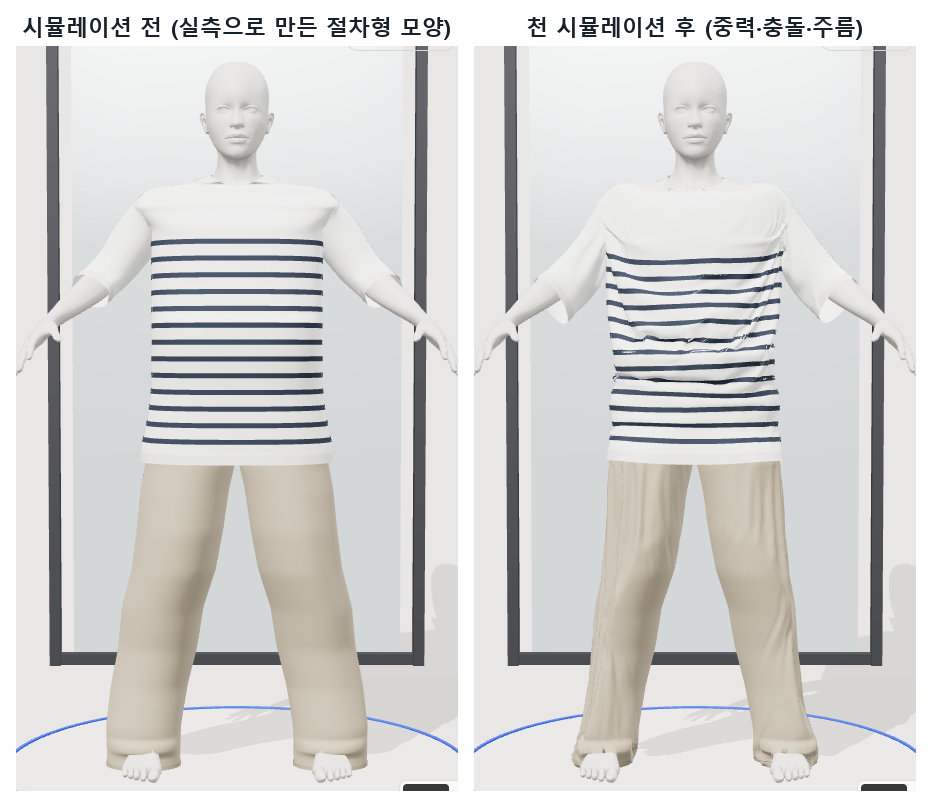
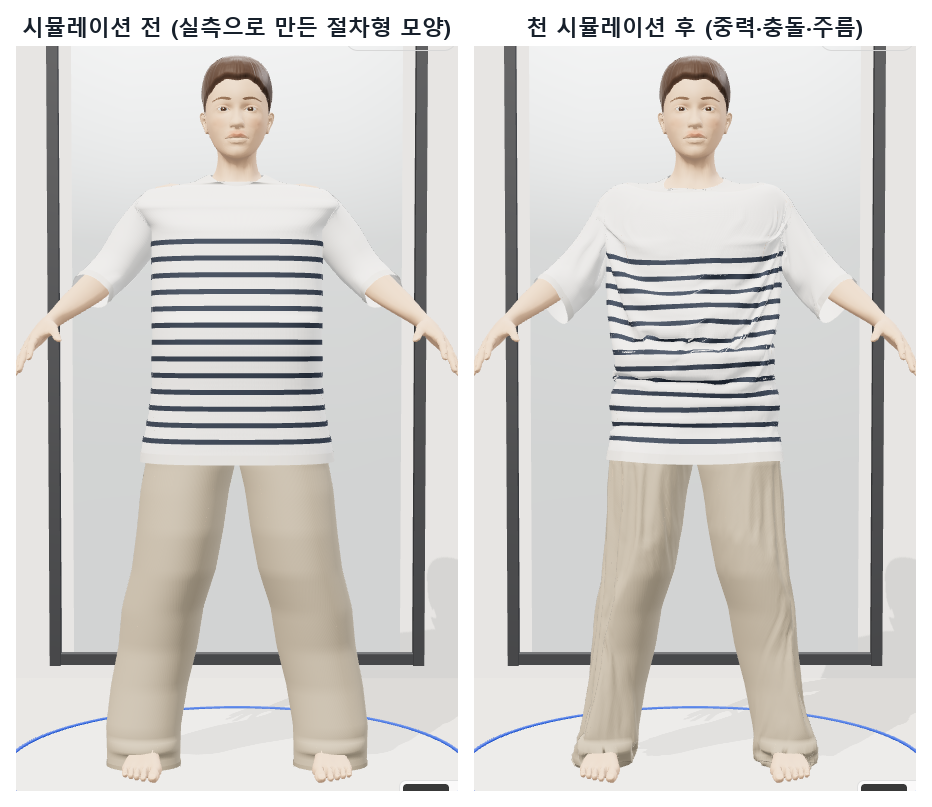
docs: 아바타 모습 설명과 새 스크린샷

diff --git a/docs/FEATURES.md b/docs/FEATURES.md
@@ -82,7 +82,7 @@ npm run build
 npm run evaluate:ads -- --dry-run
 ```
 
-Node.js 22.13 이상. Sites의 portable 실행 프로필과 Vinext/React/TypeScript, Three.js를 사용합니다. 2026-09-29에 Node 22.23에서 저장소 파일만으로 `npm ci` → `npm test`(당시 102개, 2026-10-03 기준 148개) → `npm run typecheck` → `npm run build`가 통과함을 확인했습니다. macOS의 iCloud 동기화 폴더(Documents·Desktop) 안에서는 시스템이 파일을 비워 개발 서버·빌드가 멈출 수 있으니, 저장소를 iCloud 밖에 받아 실행하세요.
+Node.js 22.13 이상. Sites의 portable 실행 프로필과 Vinext/React/TypeScript, Three.js를 사용합니다. 2026-09-29에 Node 22.23에서 저장소 파일만으로 `npm ci` → `npm test`(당시 102개, 2026-11-17 기준 156개) → `npm run typecheck` → `npm run build`가 통과함을 확인했습니다. macOS의 iCloud 동기화 폴더(Documents·Desktop) 안에서는 시스템이 파일을 비워 개발 서버·빌드가 멈출 수 있으니, 저장소를 iCloud 밖에 받아 실행하세요.
 
 AI 생성은 서버 실행 환경에 `OPENAI_API_KEY`를 비밀값으로 설정해야 동작합니다. 키가 없으면 화면에 연결 설정이 필요하다고 표시하고, 예시 문구를 실제 생성 결과처럼 대신 보여주지 않습니다.
 
@@ -108,6 +108,7 @@ node --import ./scripts/sites-env.mjs ./node_modules/wrangler/bin/wrangler.js d1
 - 판매자 상품의 가격·재고·실측·구매 링크 등록, 게시/게시 내리기, 같은 브라우저의 이용자 옷장 연동.
 - 계정 동기화한 게시 매장을 다른 브라우저·기기의 이용자 상점 거리에서도 조회하고 판매자 진열 배치로 입장.
 - MakeHuman CC0 자산 기반 3D 아바타: 회전·확대·시점 전환, 키와 체형 변형. 받침대와 스튜디오 반사광으로 음영을 다듬음.
+- 아바타 모습: 피부색 5종, 머리 모양(짧은 머리·단발·없음), 머리색 3종을 체형 편집에서 고르면 바로 바뀌고 이 브라우저에만 저장. 눈·눈썹·입술·볼을 더한 얼굴, 지금 체형의 머리를 잘라 재서 만드는 머리카락(귀를 감싸고 모자를 쓰면 모자 아래로만), 원단 종류별 결(니트·평직·능직·데님 노멀맵), 부드러운 그림자와 테두리광. 표시용이라 핏 계산과 천 시뮬레이션은 그대로다.
 - 의상은 판매자 실측에서 직접 생성한 절차형 3D: 곡선 실루엣과 파인 목선·카라가 있고 어깨가 몸에 얹히며 소매가 진동 둘레에서 팔 중심선을 따라 이어지는 상의, 엉덩이와 두 다리가 앞·뒤 중심 솔기와 가랑이에서 이어진 한 장의 천에 허리밴드(뒤가 조금 높은 허리선)·벨트 고리·밑단 스티치가 있는 하의, 6패널 솔기와 휘어진 챙의 모자. 원단 물리 시뮬레이션이나 상품 사진 기반 재구성이 아닌 참고 표현이다. 옷 치수는 상품 실측 그대로이고, 아바타 체형이 옷보다 큰 높이만 몸 단면 바깥으로 밀어 몸이 옷을 뚫고 나오지 않게 한다.
 - 옷은 마네킹 GLB를 높이별로 실측한 중심선(몸통의 앞쪽 치우침, A자로 벌어진 다리, 머리 비율)에 맞춰 놓아 몸이 옷을 뚫고 나오지 않음. `lib/wardrobe/mannequin-fit.test.ts`가 마네킹 정점에서 옷 표면으로 광선을 쏴 노출 비율(상의·하의·모자별 허용치)을 검사. 미리 만든 상품 썸네일도 같은 형태로 다시 렌더링.
 - 체형 변화 대응: `scripts/measure-mannequin.ts`가 마네킹을 2cm 간격으로 잘라 몸통·다리 단면(둘레·반폭·중심)과 체형 모프 7종의 변화량을 `lib/wardrobe/mannequin-sections.ts`에 기록한다. 중립 단면 둘레는 보정 기준(가슴 96·허리 80·엉덩이 98·머리 57cm)과 1cm 이내로 맞는다. `lib/wardrobe/body-shape.ts`가 이 표로 현재 체형의 몸 단면을 계산하고, 옷 중심선·골반·다리 하한도 모프로 변한 만큼 옮긴다. 같은 표에 오른팔 단면(1.04m 이상)과 진동 띠(1.20~1.48m에서 몸 중심에서 17cm 이상 떨어진 몸 표면의 앞뒤 범위)도 기록한다. 소매는 몸판 위의 진동 둘레(어깨점~옷 겨드랑이, 앞뒤 깊이는 진동 띠 기준)에서 시작해 팔꿈치에서 앞으로 꺾이는 팔 중심선을 따라 소매단까지 이어지고, 팔 단면 안으로 들어간 점은 바깥으로 밀어 낸다. 소매 길이는 어깨점에서 소매 윗선을 따라 잰다. `lib/wardrobe/body-fit.test.ts`가 실제 모프를 적용한 마네킹(160 마름·175 큰 체형·185 큰 체형·168 혼합 입력)에서 노출 비율과 단면 표 오차, 소매가 위팔·어깨 끝을 덮는지를 검사한다.

diff --git a/docs/ARCHITECTURE.md b/docs/ARCHITECTURE.md
@@ -117,6 +117,18 @@ flowchart LR
 | 초록 (보통) | 0.5~3cm 떠 있음 |
 | 파랑 (넉넉함) | 3cm보다 더 뜸 |
 
+### 2.5 아바타 모습 — [`lib/wardrobe/hair.ts`](../lib/wardrobe/hair.ts), [`appearance.ts`](../lib/wardrobe/appearance.ts)
+
+체형 편집의 "아바타 모습"에서 피부색 5종, 머리 모양(짧은 머리·단발·없음), 머리색 3종을 고릅니다. 이 브라우저에만 저장하고 핏 계산·천 시뮬레이션에는 쓰지 않습니다. 몸 형태와 A 포즈는 그대로라 단면 표와 시뮬레이션 결과도 그대로입니다.
+
+- **얼굴** — 마네킹 GLB에 눈(흰자·홍채·동공), 눈썹 띠, 입술·볼·눈두덩 정점 색을 더했습니다([자산 설명](assets/MAKEHUMAN.md)). 피부 재질은 고른 피부색에 이 정점 색을 곱하고, 광택 대신 약한 솜털 광택(sheen)을 줍니다.
+- **머리카락** — 지금 체형으로 모프한 머리를 3mm 간격으로 수평으로 자르고, 방향 96개마다 머리 반지름을 잽니다. 그 위에 두께를 준 껍질을 만들고, 머리카락이 끝나는 높이는 스타일별 방향 표(앞 0° ~ 뒤 180°)로 정합니다. 짧은 머리는 귀 앞 구레나룻을 지나 귀 위로 둘러 깎은 선, 단발은 턱선까지입니다.
+  - 귀처럼 좁게 튀어나온 곳은 이웃 방향·높이의 최댓값으로 넓힌 뒤 다듬어 머리카락이 뚫리지 않게 넘어갑니다.
+  - 단발은 귀 위 두개골 높이 아래로 그 반지름보다 안쪽으로 들어가지 않고, 귀를 넘은 뒤 천천히 안으로 떨어지며, 끝을 살짝 안으로 맙니다.
+  - 끝 18%는 두께를 줄여 머리선이 피부에 닿습니다. 모자를 쓰면 모자 띠 아래로만 만듭니다.
+- **원단 결** — 니트·평직·능직·데님을 상품 이름과 스타일로 고르고, 절차형 노멀맵(128px, 반복)으로 표면 음영만 바꿉니다. 색과 형태는 그대로입니다.
+- **조명** — 부드러운 그림자(PCF soft), 따뜻한 주광, 뒤쪽 테두리광으로 머리와 어깨 윤곽을 살립니다.
+
 ## 3. 사진으로 체형 추정 — [`lib/wardrobe/photo-estimate.ts`](../lib/wardrobe/photo-estimate.ts)
 
 1. Web Worker([`photo-worker.ts`](../lib/wardrobe/photo-worker.ts))에서 MediaPipe Pose Landmarker Lite로 정면·측면 사진의 **관절 33개와 사람 영역 마스크**를 얻습니다. 모델과 WASM 파일은 같은 사이트에서 제공해서 사진이 외부로 나가지 않습니다.
@@ -181,13 +193,15 @@ flowchart LR
 
 ## 6. 테스트
 
-`npm test`로 Node.js 테스트 러너가 **148개 테스트**를 돌립니다. GitHub Actions에서 설치 → 테스트 → 타입 검사 → 빌드를 실행합니다. 3D 부분은 화면을 눈으로 보는 대신 실제 마네킹 메시로 **물리적 조건을 숫자로 검사**합니다.
+`npm test`로 Node.js 테스트 러너가 **156개 테스트**를 돌립니다. GitHub Actions에서 설치 → 테스트 → 타입 검사 → 빌드를 실행합니다. 3D 부분은 화면을 눈으로 보는 대신 실제 마네킹 메시로 **물리적 조건을 숫자로 검사**합니다.
 
 | 테스트 | 검사 내용 |
 |---|---|
 | [`cloth.test.ts`](../lib/wardrobe/cloth.test.ts) | 거리장이 표면에서 평균 1mm 미만인지 · 늘어뜨린 상의가 몸·바지를 뚫지 않는지(몸 안 정점 0.5% 미만) · 어깨·몸통 노출이 3%·2% 이하인지 · 바지 허리가 고정되고 바닥에서 멈추는지 · 작은 옷은 끼임, 넉넉한 옷은 틈으로 칠해지는지 |
 | [`mannequin-fit.test.ts`](../lib/wardrobe/mannequin-fit.test.ts) | 마네킹 정점에서 법선 방향으로 광선을 쏴서 옷 밖으로 드러난 비율 검사 |
 | [`body-fit.test.ts`](../lib/wardrobe/body-fit.test.ts) | 실제 모프를 적용한 여러 체형(160 마름, 175·185 큰 체형 등)에서 노출 비율과 단면 표 오차 |
+| [`hair.test.ts`](../lib/wardrobe/hair.test.ts) | 세 가지 체형에서 머리카락이 머리(귀 포함)를 1mm 넘게 띄워 감싸는지 · 앞머리선이 눈썹 위에서 끝나는지 · 모자를 쓰면 모자 띠 아래로만 생기는지 |
+| [`appearance.test.ts`](../lib/wardrobe/appearance.test.ts) | 저장된 아바타 모습이 깨졌을 때 항목별로 기본값으로 돌아가는지 · 마네킹 GLB의 몸 메시가 하나이고 눈·눈썹이 몸과 같은 모프를 갖는지 |
 | [`photo-silhouette.test.ts`](../lib/seller/photo-silhouette.test.ts) | 상의·바지 사진 윤곽에서 비율을 재고, 쓸 수 없는 사진을 거부하는지 |
 | [`lib/ads/*.test.ts`](../lib/ads) | 입력·출력 계약, Responses API 텍스트 추출, 오류 분류, 자동 검사 규칙 |
 

diff --git a/docs/assets/MAKEHUMAN.md b/docs/assets/MAKEHUMAN.md
@@ -32,6 +32,17 @@ Default weights are all zero. Each target supports weights [-1,1]. Recommended m
 
 If the mesh is subsequently uniformly scaled, all circumference/length changes scale with it. For a fully dimension-aware mapping, divide the requested lengths by the applied height scale before converting to morph weights. `legLength` also changes total native height by 0.20 m per weight; normalizing to an exact requested total stature afterwards will reduce its absolute effect. Keep this interaction visible in the product's approximation language.
 
+## Avatar details (face, eyes, brows)
+
+`public/models/mannequin.glb` is the v2 mannequin plus display-only face details added by `source/generate_avatar_details.py` (numpy; run it on the v2 GLB, it refuses a GLB that already has the details). `source/avatar-details-report.json` records its output.
+
+- Body mesh: unchanged positions, normals, indices and morph targets (the script checks the body buffer and primitive byte for byte). It only adds a `COLOR_0` multiplier per vertex for lips, eyelid creases and cheeks, so the chosen skin colour shows through.
+- `Eye_L`, `Eye_R` (nodes `Fitroom_Eye_L/R`): spheres with white, iris and pupil vertex colours. Centres and sizes come from MakeHuman's `helper-l-eye`/`helper-r-eye` groups in `base.obj`, mapped into mannequin space with a local affine fit around each eye (residual under 1 mm).
+- `Brows` (node `Fitroom_Brows`): two thin ribbons projected onto the face surface and lifted 0.8 mm along the normal.
+- Eyes and brows carry the same seven position morph targets as the body, estimated from the body's morph deltas near each eye, so they follow head and height changes.
+
+Hair is not part of the asset. `lib/wardrobe/hair.ts` builds it in the browser from the morphed head (see `docs/ARCHITECTURE.md`).
+
 ## Limitations
 
 These local morphs approximate body-shape differences. They are not a fitted anthropometric model, and simultaneous morphs interact. The wide mathematical range permits extreme silhouettes; some combinations are anatomically unrealistic and may cause local self-intersection. The model does not simulate cloth or predict garment fit. No skeleton or animation clips. Face, ears, hands and toes remain from MakeHuman; helper/genital geometry is excluded and the chest uses a smooth mannequin shell.
